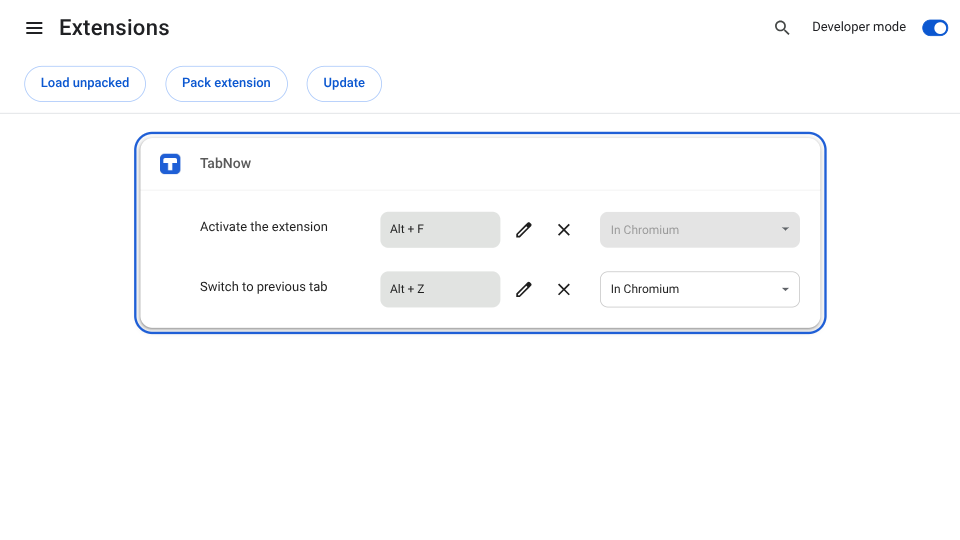
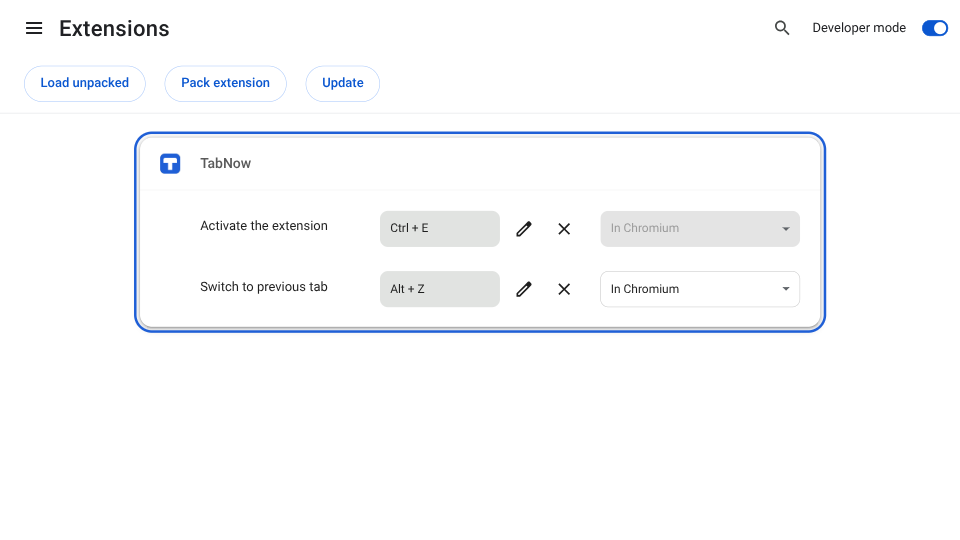
feat: Ctrl+E is the default open shortcut
Alt+F opens the browser menu on Windows/Linux, so browsers often skipped it at install.
README and install guide updated.

diff --git a/README.md b/README.md
@@ -1,12 +1,12 @@
 # TabNow
 
-Fuzzy search across every open tab in every window. Press `Alt+F`, type, hit Enter.
+Fuzzy search across every open tab in every window. Press `Ctrl+E`, type, hit Enter.
 
 ![TabNow demo: fuzzy match a tab, scope to bookmarks with /, switch to dark with Alt+T](docs/demo.gif)
 
 ## Features
 
-- Searches all windows. Most recently used first, with the previous tab preselected, so `Alt+F` then `Enter` flips back.
+- Searches all windows. Most recently used first, with the previous tab preselected, so `Ctrl+E` then `Enter` flips back.
 - Fuzzy matching ranks domain over title over the rest of the URL.
 - Tabs from other windows show a faint second card behind their favicon (hover it for "In another window").
 - Optionally searches history and bookmarks too (off by default), listed below the open tabs.
@@ -32,13 +32,13 @@ Not in the Web Store yet. TabNow needs Chrome 121+ or another Chromium browser o
 1. Clone this repo.
 2. Open `brave://extensions` (or `chrome://extensions`) and turn on Developer mode.
 3. Click Load unpacked, pick the `extension/` folder.
-4. Optional: check the shortcuts at `chrome://extensions/shortcuts`, then press `Alt+F` on any page.
+4. Optional: check the shortcuts at `chrome://extensions/shortcuts`, then press `Ctrl+E` on any page.
 
 `brave://` and `edge://` pages work the same as `chrome://`.
 
 ## Keyboard shortcuts
 
-Open TabNow with `Alt+F` or the toolbar button. It shows as a centered overlay on the current page. Pressing `Alt+F` again while it is open closes it.
+Open TabNow with `Ctrl+E` (`Cmd+E` on macOS) or the toolbar button. It shows as a centered overlay on the current page. Pressing `Ctrl+E` again while it is open closes it.
 
 On open, tabs are listed most recently used first and the previous tab is preselected.
 
@@ -69,7 +69,7 @@ On open, tabs are listed most recently used first and the previous tab is presel
 
 Tips:
 
-- `Alt+Z` switches straight to your previous tab without opening TabNow, in any window. Press it again to flip back. (`Alt+F`, `Enter` does the same through the list.)
+- `Alt+Z` switches straight to your previous tab without opening TabNow, in any window. Press it again to flip back. (`Ctrl+E`, `Enter` does the same through the list.)
 - `Ctrl+N` is not used for moving down: the browser reserves it for "new window" and pages cannot intercept it. Use `Ctrl+J` / `Ctrl+K` instead.
 
 Change the opening shortcut and the `Alt+Z` previous-tab shortcut at `brave://extensions/shortcuts` (or `chrome://extensions/shortcuts`): TabNow, "Activate the extension" and "Switch to previous tab".
